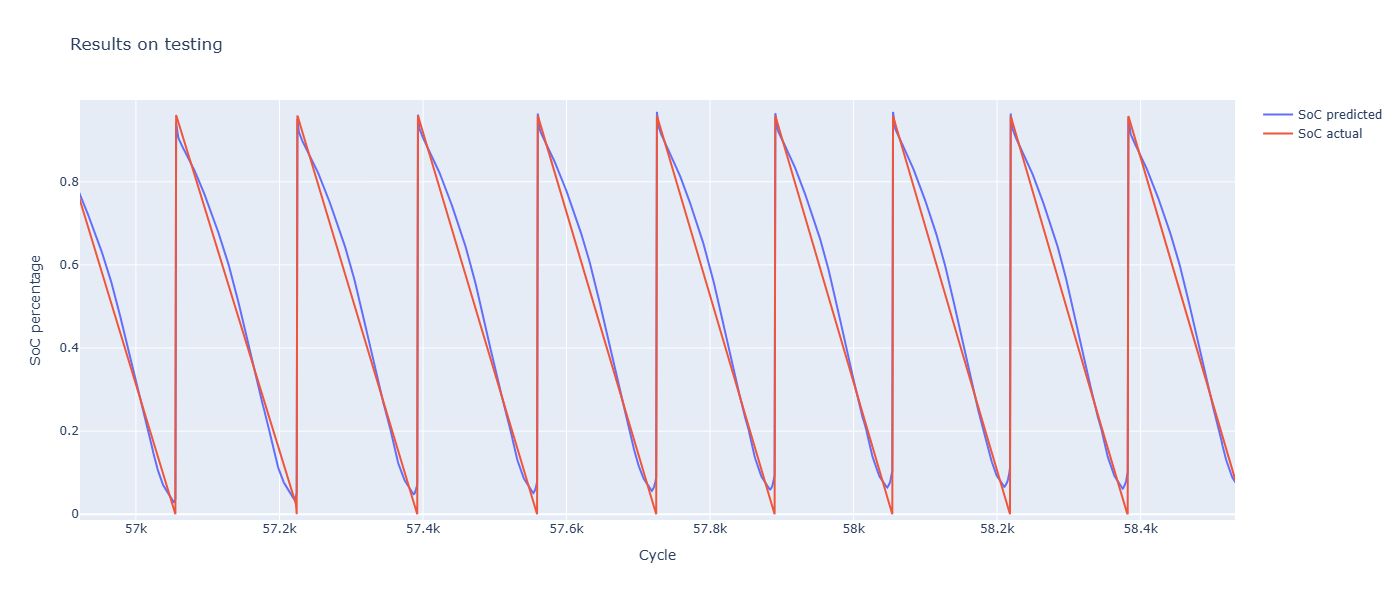
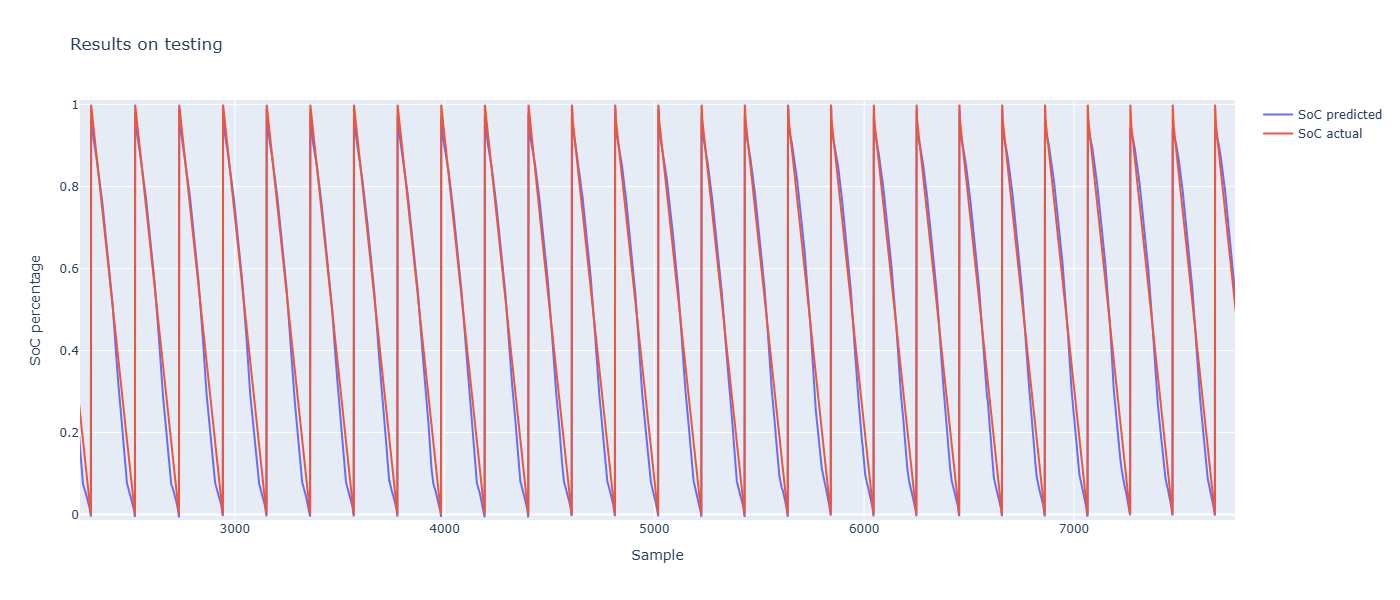
Update script comments and SOC test result picture

diff --git a/SOC_Train.py b/SOC_Train.py
@@ -134,10 +134,10 @@ model.add(LSTM(256,
                 return_sequences=True,
                 unroll=True,
                 input_shape=(TIME_STEPS, train_x.shape[2])))
-model.add(Dropout(0.2)) # 隨機丟棄 20% 神經元，防止過度擬合
+model.add(Dropout(0.2)) # Dropout 20% of neurons to prevent overfitting.
 
 model.add(LSTM(256, unroll=True, return_sequences=True))
-model.add(Dropout(0.2)) # 隨機丟棄 20% 神經元，防止過度擬合
+model.add(Dropout(0.2)) # Dropout 20% of neurons to prevent overfitting.
 
 model.add(LSTM(128, unroll=True, return_sequences=False))
 model.add(Dropout(0.2))
@@ -152,10 +152,10 @@ es = EarlyStopping(monitor='val_loss', patience=50)
 mc = ModelCheckpoint(data_path + 'results/trained_model/%s_best.keras' % experiment_name, 
                              save_best_only=True, 
                              monitor='val_loss')
-reduce_lr = ReduceLROnPlateau(monitor='val_loss', factor=0.5, patience=5, min_lr=0.00001) # 停滯 5 個 epoch 就把學習率砍半
+reduce_lr = ReduceLROnPlateau(monitor='val_loss', factor=0.5, patience=5, min_lr=0.00001) # Halve the learning rate after 5 epochs of stagnation.
 
 history = model.fit(train_x_seq, train_y_seq,
-                                epochs=5,
+                                epochs=30,
                                 batch_size=128,
                                 verbose=1,
                                 validation_split=0.2,
@@ -202,7 +202,7 @@ fig.add_trace(go.Scatter(x=step_index, y=train_predictions.flatten()[cycle_num*s
 fig.add_trace(go.Scatter(x=step_index, y=train_y_seq.flatten()[cycle_num*steps_num:(cycle_num+1)*steps_num],
                     mode='lines', name='SoC actual'))
 fig.update_layout(title='Results on training',
-                  xaxis_title='Cycle',
+                  xaxis_title='Sample',
                   yaxis_title='SoC percentage',
                   width=1400,
                   height=600)
@@ -220,7 +220,7 @@ fig.add_trace(go.Scatter(x=step_index, y=test_predictions.flatten()[cycle_num*st
 fig.add_trace(go.Scatter(x=step_index, y=test_y_seq.flatten()[cycle_num*steps_num:(cycle_num+1)*steps_num],
                     mode='lines', name='SoC actual'))
 fig.update_layout(title='Results on testing',
-                  xaxis_title='Cycle',
+                  xaxis_title='Sample',
                   yaxis_title='SoC percentage',
                   width=1400,
                   height=600)
@@ -245,15 +245,15 @@ with open('results/trained_model/BMS_SOC_INT8.tflite', 'wb') as f:
 
 def export_numpy_to_c_header(x_array, y_array, filename="test_data.h"):
     """
-    將 NumPy 陣列轉換並寫入 C Header 檔案中。
+    Convert the NumPy array and write it to the C Header file.
     """
-    print(f"正在匯出資料至 {filename} ...")
+    print(f"Data is being exported to {filename} ...")
     
     with open(filename, 'w') as f:
         f.write("#ifndef TEST_DATA_H\n")
         f.write("#define TEST_DATA_H\n\n")
 
-        # 寫入輸入資料的 Normalize 資訊，方便 C 語言開發時參考
+        # Write the Normalize information of the input data for easy reference during C language development.
         f.write(f"// Normalize scale factor(voltage, current, temperature, SOH)\n")
         scale_max_str = f"{discharge_x_scaler[0].data_max_[0]}, {discharge_x_scaler[1].data_max_[0]}, {discharge_x_scaler[2].data_max_[0]}, {discharge_x_scaler[3].data_max_[0]}"
         scale_min_str = f"{discharge_x_scaler[0].data_min_[0]}, {discharge_x_scaler[1].data_min_[0]}, {discharge_x_scaler[2].data_min_[0]}, {discharge_x_scaler[3].data_min_[0]}"
@@ -261,22 +261,22 @@ def export_numpy_to_c_header(x_array, y_array, filename="test_data.h"):
         f.write(f"const float normalize_scale_min[] = {{{scale_min_str}}};\n")
 
         def write_array_to_c(arr, array_name):
-            slice_start = 0  # 根據實際需要調整切片起始位置
-            slice_size = 64  # 根據實際需要調整切片大小
+            slice_start = 0  # Adjust the starting position of the slice according to actual needs.
+            slice_size = 64  # Adjust the slice size according to actual needs.
             slice_arr = arr[slice_start: slice_start + slice_size, ...]
 
             flat_arr = slice_arr.flatten()
             length = len(flat_arr)
 
-            # 寫入陣列維度資訊當作註解，方便 C 語言開發時參考
+            # Write the array dimensions for easy reference during C language development
             f.write(f"// Original array shape: {slice_arr.shape}\n")
             f.write(f"const int {array_name}_dim[] = {{{', '.join(map(str, slice_arr.shape))}}};\n")
             f.write(f"const int {array_name}_length = {length};\n\n")
             
-            # 宣告 C 陣列 (這裡以 float 為例)
+            # Declare the C array (using float as an example)
             f.write(f"const float {array_name}[{length}] = {{\n")
             
-            # 將數值分批寫入，避免單行過長導致編譯器報錯 (每行 32 個數值)
+            # Write the values in batches to avoid compiler errors caused by single lines being too long (32 values per line).
             for i in range(0, length, 32):
                 chunk = flat_arr[i:i+32]
                 chunk_str = ", ".join([f"{val:.6f}" for val in chunk])
@@ -286,14 +286,14 @@ def export_numpy_to_c_header(x_array, y_array, filename="test_data.h"):
                     f.write(f"    {chunk_str}\n")
             f.write("};\n\n")
 
-        # 寫入 X 與 Y 資料
+        # Write the X and Y data
         write_array_to_c(x_array, "test_x_seq")
         write_array_to_c(y_array, "test_y_seq")
 
         f.write("#endif // TEST_DATA_H\n")
     
-    print("匯出完成！")
+    print("Export completed!")
 
-# 使用 sequence 的 test_x_seq 與 test_y_seq 
+# Export test_raw_x_seq and test_y_seq data to C header file for later use in C language development.
 export_filepath = data_path + 'results/trained_model/SOC_test_data.h'
 export_numpy_to_c_header(test_raw_x_seq, test_y_seq, filename=export_filepath)

diff --git a/SOH_Train.py b/SOH_Train.py
@@ -229,15 +229,15 @@ with open('results/trained_model/BMS_SOH_INT8.tflite', 'wb') as f:
 
 def export_numpy_to_c_header(x_array, y_array, filename="test_data.h"):
     """
-    將 NumPy 陣列轉換並寫入 C Header 檔案中。
+    Convert the NumPy array and write it to the C Header file.
     """
-    print(f"正在匯出資料至 {filename} ...")
+    print(f"Data is being exported to {filename} ...")
     
     with open(filename, 'w') as f:
         f.write("#ifndef TEST_DATA_H\n")
         f.write("#define TEST_DATA_H\n\n")
 
-        # 寫入輸入資料的 Normalize 資訊，方便 C 語言開發時參考
+        # Write the Normalize information of the input data for easy reference during C language development.
         f.write(f"// Normalize scale factor(voltage, current, temperature)\n")
         scale_max_str = f"{charge_x_scaler[0].data_max_[0]}, {charge_x_scaler[1].data_max_[0]}, {charge_x_scaler[2].data_max_[0]}"
         scale_min_str = f"{charge_x_scaler[0].data_min_[0]}, {charge_x_scaler[1].data_min_[0]}, {charge_x_scaler[2].data_min_[0]}"
@@ -245,22 +245,22 @@ def export_numpy_to_c_header(x_array, y_array, filename="test_data.h"):
         f.write(f"const float normalize_scale_min[] = {{{scale_min_str}}};\n")
 
         def write_array_to_c(arr, array_name):
-            slice_start = 0  # 根據實際需要調整切片起始位置
-            slice_size = 64  # 根據實際需要調整切片大小
+            slice_start = 0  # Adjust the starting position of the slice according to actual needs.
+            slice_size = 64  # Adjust the slice size according to actual needs.
             slice_arr = arr[slice_start: slice_start + slice_size, ...]
 
             flat_arr = slice_arr.flatten()
             length = len(flat_arr)
 
-            # 寫入陣列維度資訊當作註解，方便 C 語言開發時參考
+            # Write the array dimensions for easy reference during C language development
             f.write(f"// Original array shape: {slice_arr.shape}\n")
             f.write(f"const int {array_name}_dim[] = {{{', '.join(map(str, slice_arr.shape))}}};\n")
             f.write(f"const int {array_name}_length = {length};\n\n")
             
-            # 宣告 C 陣列 (這裡以 float 為例)
+            # Declare the C array (using float as an example)
             f.write(f"const float {array_name}[{length}] = {{\n")
             
-            # 將數值分批寫入，避免單行過長導致編譯器報錯 (每行 12 個數值)
+            # Write the values in batches to avoid compiler errors caused by single lines being too long (12 values per line).
             for i in range(0, length, 12):
                 chunk = flat_arr[i:i+12]
                 chunk_str = ", ".join([f"{val:.6f}" for val in chunk])
@@ -270,13 +270,13 @@ def export_numpy_to_c_header(x_array, y_array, filename="test_data.h"):
                     f.write(f"    {chunk_str}\n")
             f.write("};\n\n")
 
-        # 寫入 X 與 Y 資料
+        # Write the X and Y data
         write_array_to_c(x_array, "test_x")
         write_array_to_c(y_array, "test_y")
 
         f.write("#endif // TEST_DATA_H\n")
     
-    print("匯出完成！")
+    print("Export completed!")
 
 # Export test_x and test_y data to C header file for later use in C language development.
 export_filepath = data_path + 'results/trained_model/SOH_test_data.h'
